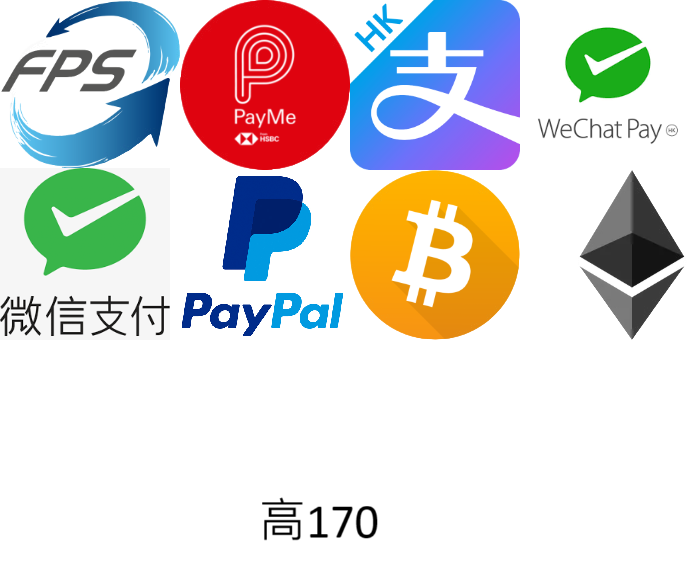
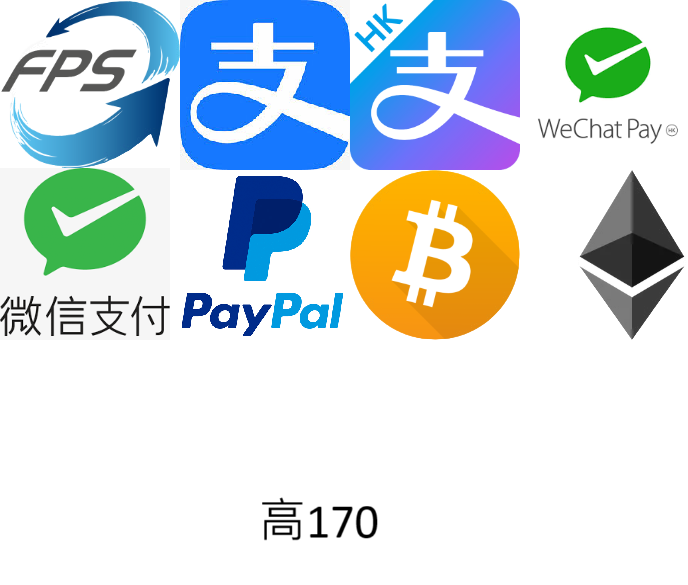
Add files via upload

Changed region(s): [[0.2442, 0.0, 0.5189, 0.3077]]

diff --git a/PayAki/index.html b/PayAki/index.html
@@ -69,15 +69,15 @@
                     </div>
                 </div>
 
-                <!-- payme 
+                <!-- 支付寶大陸 -->
                 <div class="payment-option">
                     <div class='bgimg payment-icon' style='background-position: -180px 40px;' title="Payme" ></div> 
                     <div class="payment-info">
                         <div class='bgimg info-image' style='background-position: -300px 0px;' title="Payme" ></div> 
-                        <p >PayMe 是一款線上支付平台，由恒生銀行於2018年推出。</p>
+                        <p >支付宝，全球领先的独立第三方支付平台。</p>
                     </div>
                 </div>
-                -->
+                
 
                 <!-- AlipayHK -->
                 <div class="payment-option">
